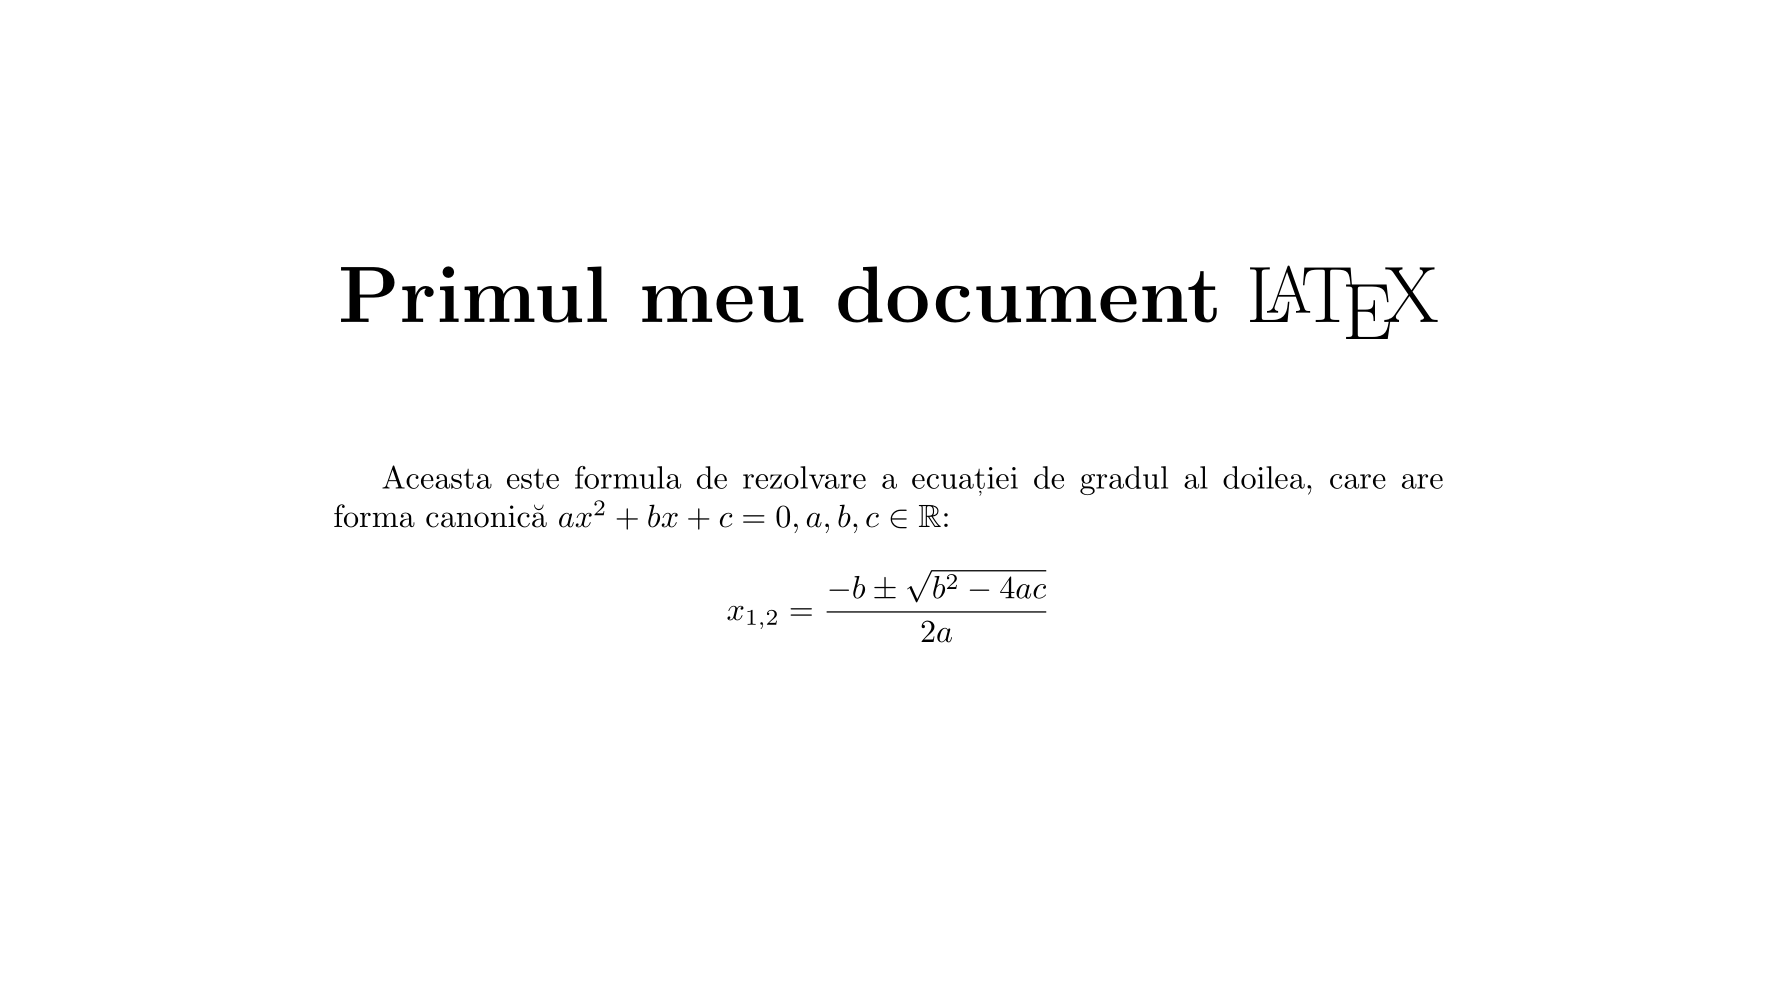
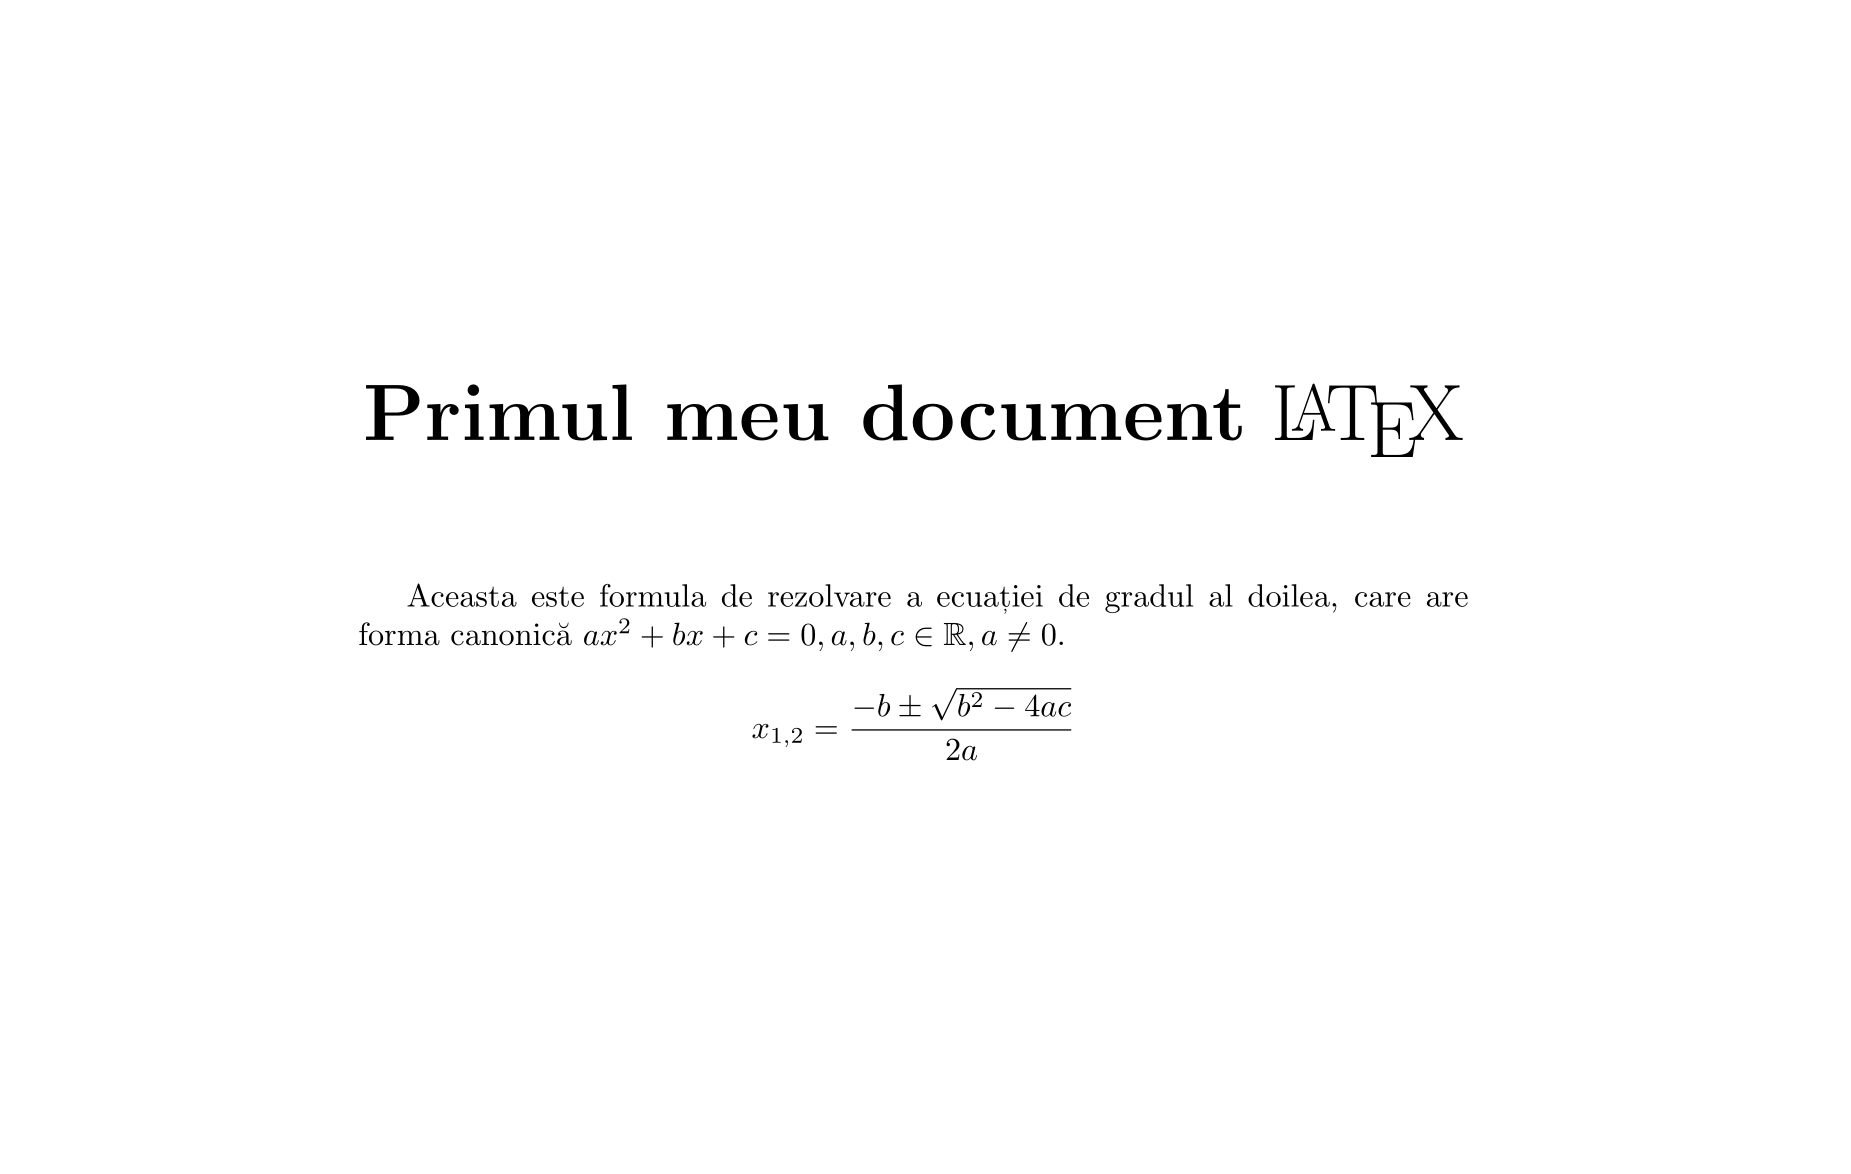
editat mwe

diff --git a/static/documents/mwe.tex b/static/documents/mwe.tex
@@ -11,7 +11,7 @@
 \vspace{1cm}
 
 Aceasta este formula de rezolvare a ecuației de gradul al doilea,
-care are forma canonică $ ax^2 + bx + c = 0, a, b, c \in \mathbb{R} $:
+care are forma canonică $ ax^2 + bx + c = 0, a, b, c \in \mathbb{R}, a \neq 0 $.
 
 \[
     x_{1,2} = \frac{-b \pm \sqrt{b^2 - 4ac}}{2a}

diff --git a/content/ro/materiale/floss/latex.md b/content/ro/materiale/floss/latex.md
@@ -104,7 +104,7 @@ Apoi copiază în el codul de mai jos (sau descarcă direct fișierul de [aici](
 \vspace{1cm}
 
 Aceasta este formula de rezolvare a ecuației de gradul al doilea,
-care are forma canonică $ ax^2 + bx + c = 0, a, b, c \in \mathbb{R} $:
+care are forma canonică $ ax^2 + bx + c = 0, a, b, c \in \mathbb{R}, a \neq 0 $:
 
 \[
     x_{1,2} = \frac{-b \pm \sqrt{b^2 - 4ac}}{2a}
@@ -137,8 +137,8 @@ ca `\large, \Large, \huge, \big, \Big` și nu numai. Le poți testa pe fiecare.
 - Am adăugat spațiu vertical de 1cm, cu `\vspace{1cm}`.
 - Textul propriu-zis se scrie normal, iar când vrei să incluzi matematică, o delimitezi prin `$...$`.
 - Dacă vrei matematică scrisă separat, pe un rând și centrată, o delimitezi prin `\[ ... \]`.
-- Simbolurile din formulă ar trebui să fie clare: `\frac` scrie o fracție, `\pm` scrie $\pm$, iar `\sqrt`
-scrie un radical.
+- Simbolurile din formulă ar trebui să fie clare: `\frac` scrie o fracție, `\pm` scrie $\pm$, 
+`\neq` scrie $\neq$, iar `\sqrt` scrie un radical.
 - Observă că delimitările se fac prin acolade, nu paranteze sau alte simboluri. Când vrei să izolezi
 conținutul, îl incluzi între acolade. La titlu, de exemplu, dacă nu-l delimitam între acolade,
 opțiunile `\Huge` și `\textbf` se aplicau întregului document.
@@ -194,7 +194,7 @@ De exemplu, documentul `.tex` de mai sus se poate scrie (aproximativ) la fel
 # Primul meu document $\LaTeX$
 
 Aceasta este formula de rezolvare a ecuației de gradul al doilea,
-care are forma canonică $ax^2 + bx + c = 0, a, b, c \in \mathbb{R}$:
+care are forma canonică $ax^2 + bx + c = 0, a, b, c \in \mathbb{R}, a \neq 0$:
 
 \[
     x_{1,2} = \frac{-b \pm \sqrt{b^2 - 4ac}}{2a}
